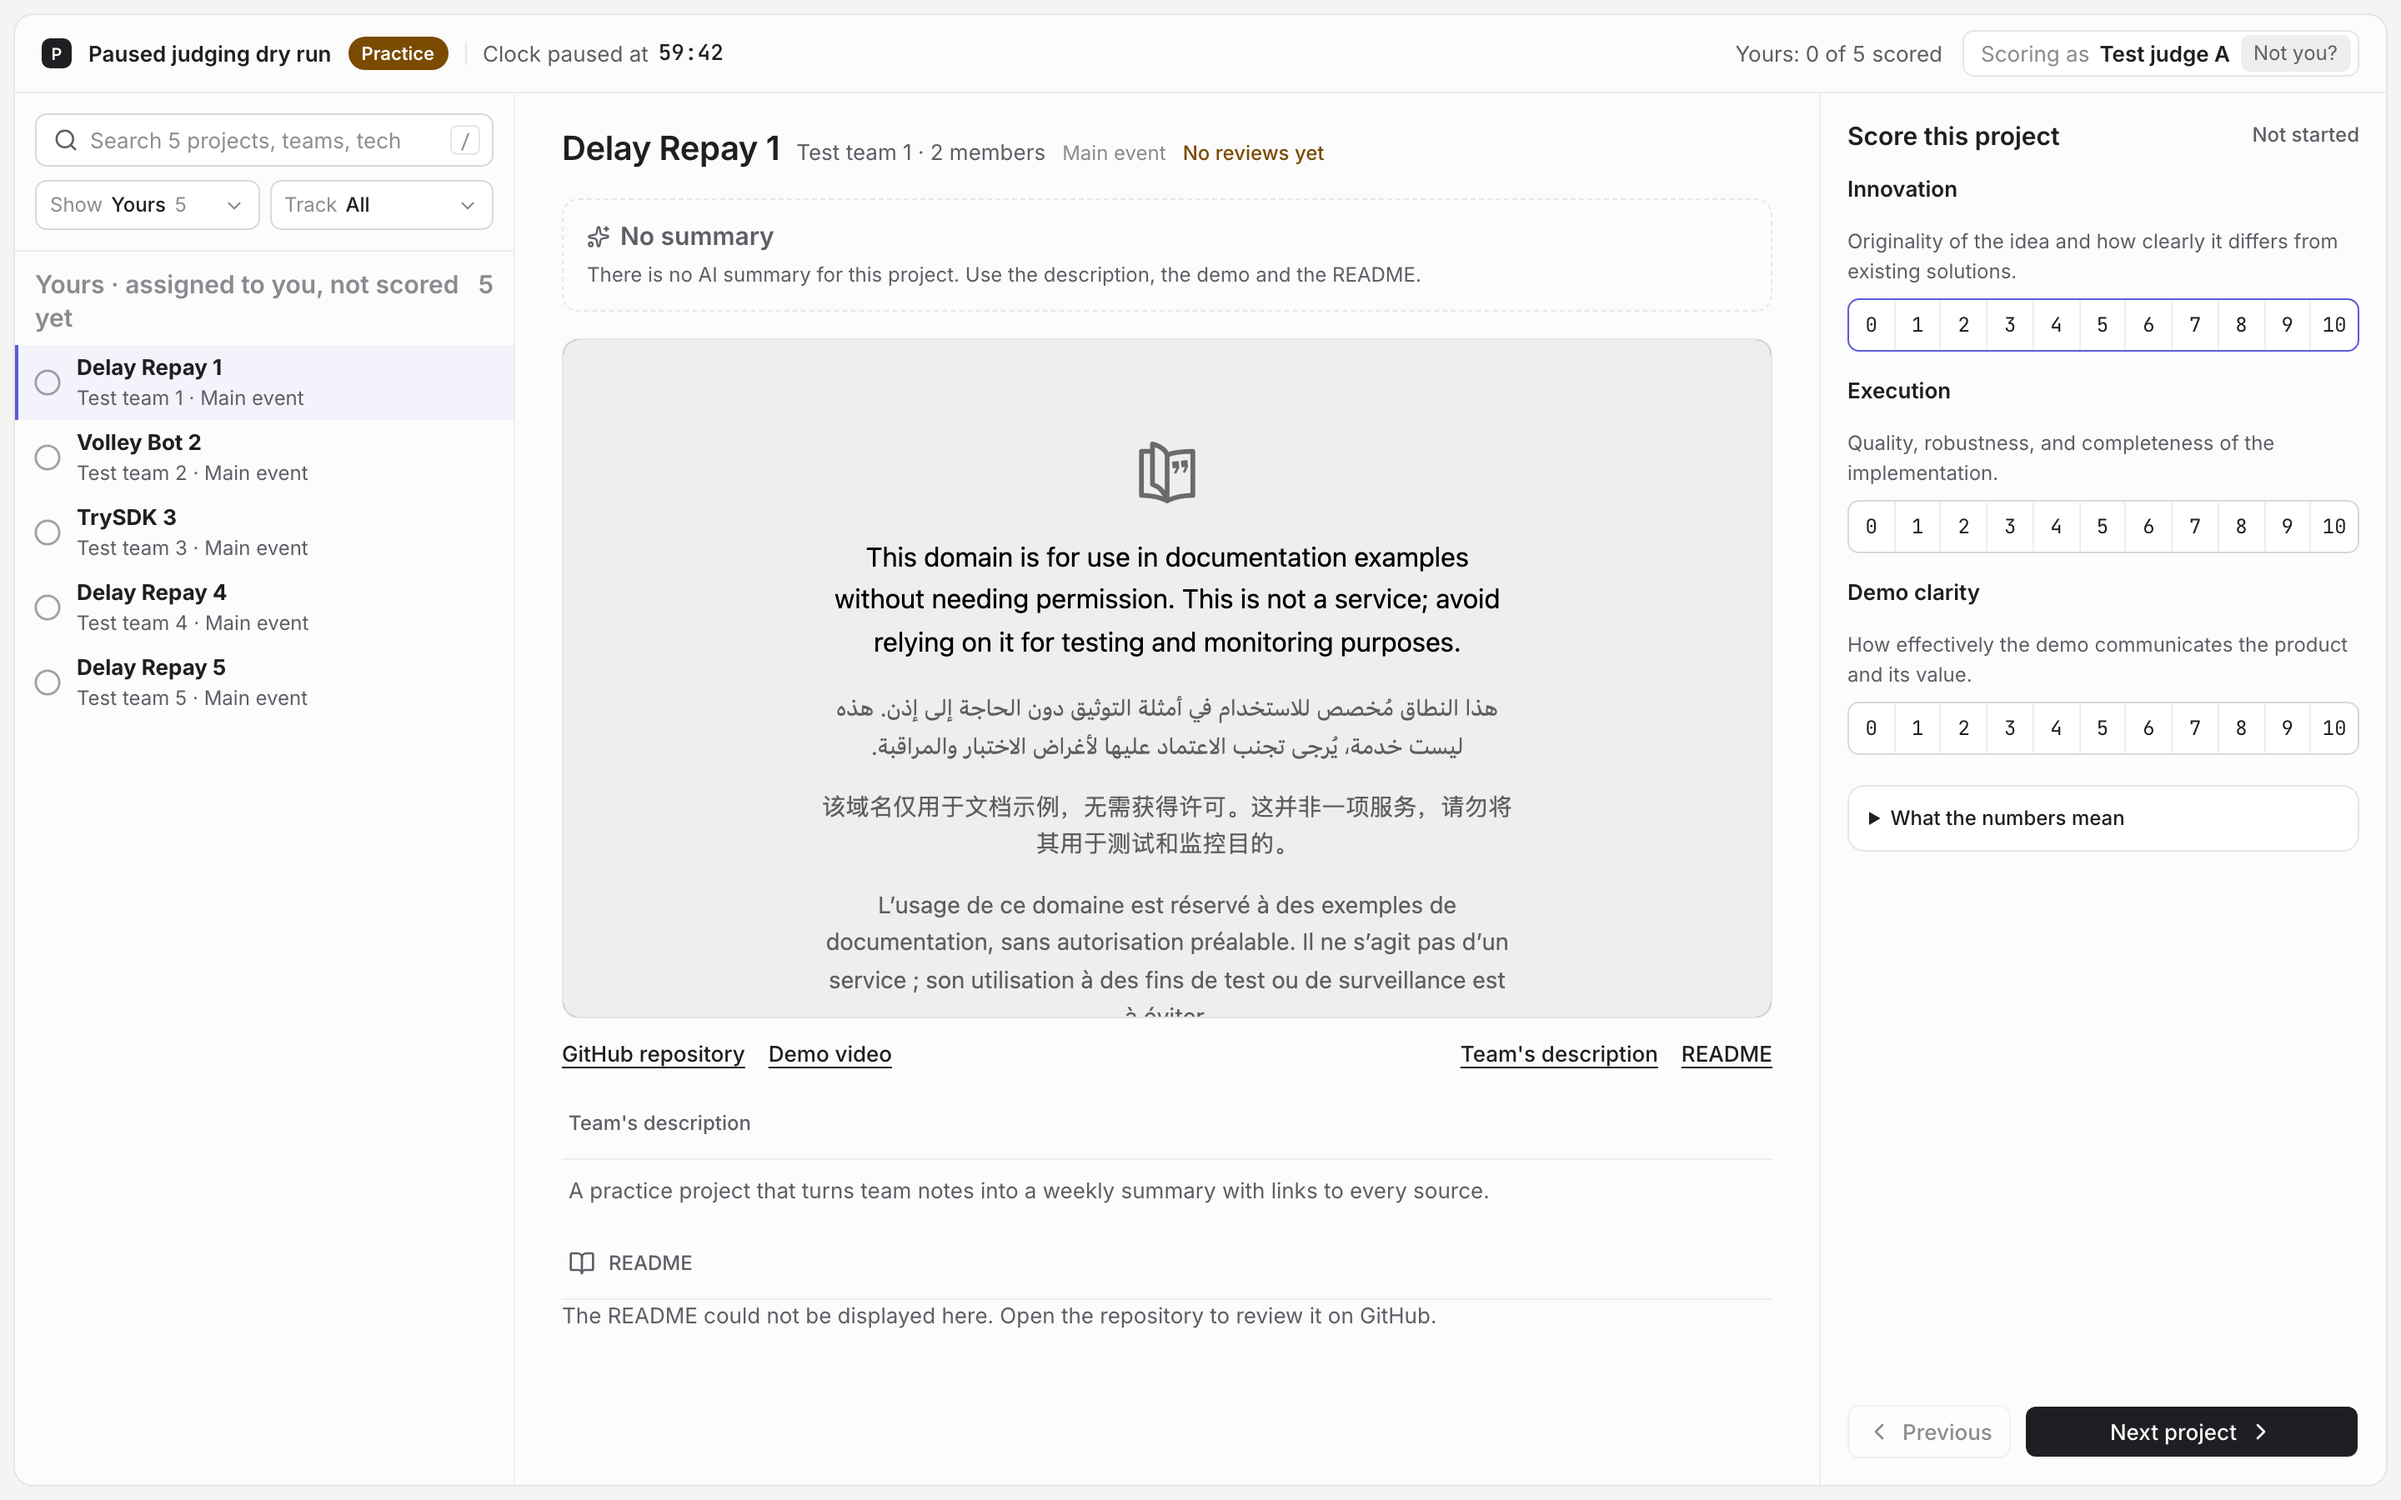
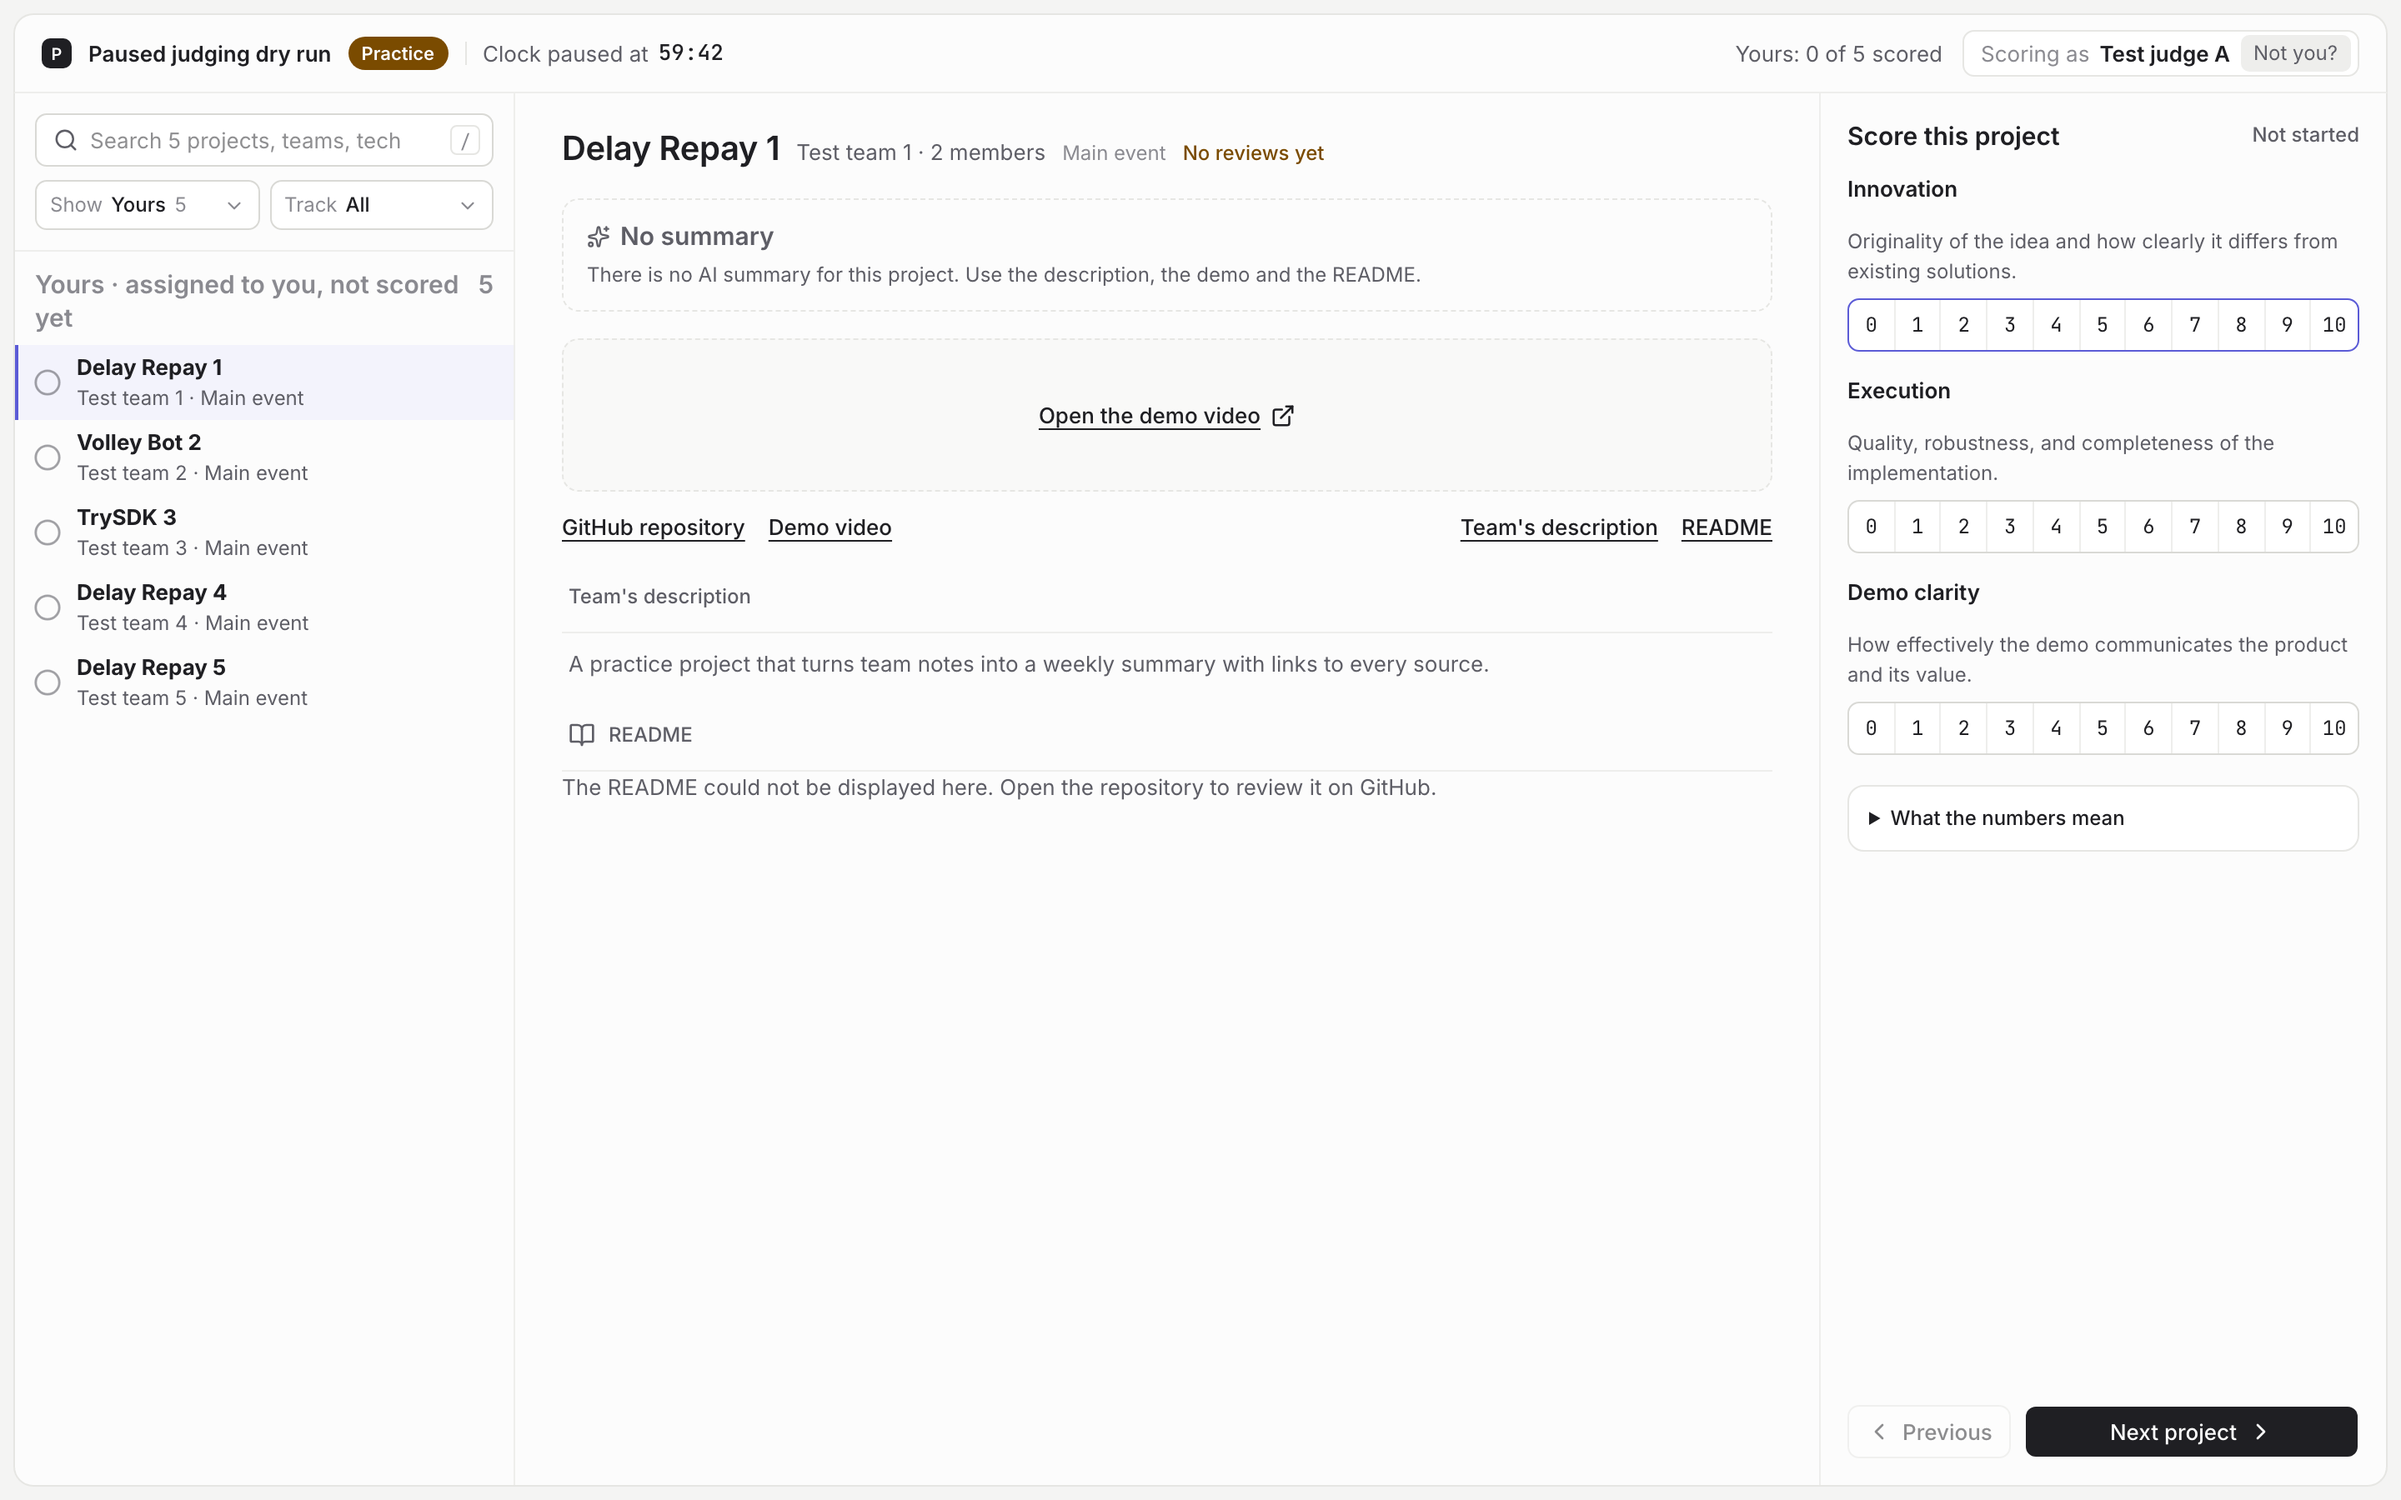
fix: embed only known video hosts on the judge page
Any HTTPS video link went into a frame, so a link to some other site showed
that site inside the judge page. Only YouTube, Vimeo, Loom and Google Drive
file previews are embedded now; any other link shows "Open the demo video".
Reshoots the five practice judge shots that framed a test link.

Requested-by: Demian (seed findings)

diff --git a/app/judge/[slug]/[token]/ClientPage.tsx b/app/judge/[slug]/[token]/ClientPage.tsx
@@ -28,7 +28,7 @@ import { Tooltip, TooltipContent, TooltipProvider, TooltipTrigger } from "@/comp
 import { ShortcutTooltip } from "@/components/shell/commands";
 import { JUDGING_CRITERIA, JUDGING_CRITERION_LABELS } from "@/lib/judging-rubric";
 import { Id } from "../../../../convex/_generated/dataModel";
-import { youtubeEmbedUrl } from "@/lib/video-embed";
+import { videoEmbedUrl, youtubeEmbedUrl } from "@/lib/video-embed";
 import styles from "./judge.module.css";
 
 type Workspace = FunctionReturnType<typeof api.judging.getJudgeWorkspace>;
@@ -95,16 +95,6 @@ function useJudgingClock(timer: { remainingMs: number; serverNow: number; runnin
   }, [timer?.running, timer?.serverNow, timer?.remainingMs]);
   if (!timer) return 0;
   return timer.running ? timer.remainingMs - (now - offset - timer.serverNow) : timer.remainingMs;
-}
-
-function genericVideoEmbedUrl(value: string | null) {
-  if (!value) return null;
-  try {
-    const url = new URL(value);
-    return url.protocol === "https:" ? url.toString() : null;
-  } catch {
-    return null;
-  }
 }
 
 function Readme({ repositoryUrl }: { repositoryUrl: string | null }) {
@@ -366,7 +356,8 @@ function JudgeWorkspace({ data, slug, token, saveReview, onNotYou }: {
   const saveLabel = !selected ? "" : currentSaveState === "saving" ? "Saving…" : currentSaveState === "error" ? "Could not save" : currentSaveState === "saved" || currentComplete ? "Saved" : Object.keys(currentScores).length ? "Saved" : "Not started";
   const saveClass = currentSaveState === "error" ? styles.saveError : saveLabel === "Saved" ? styles.saveState : styles.savePending;
   const youtubeUrl = youtubeEmbedUrl(selected?.videoUrl ?? null);
-  const embedUrl = youtubeUrl ?? genericVideoEmbedUrl(selected?.videoUrl ?? null);
+  // Only known video hosts play inline; any other link opens in a new tab.
+  const embedUrl = videoEmbedUrl(selected?.videoUrl ?? null);
   const showOption = SHOW_OPTIONS.find((option) => option.value === show)!;
   const trackLabel = tracks.length === 0 ? "All" : tracks.length === 1 ? (tracks[0] === MAIN_EVENT ? "Main event only" : data.tracks.find((track) => String(track.id) === tracks[0])?.name ?? "1 track") : `${tracks.length} selected`;
   const note = selected ? reviewNote(selected, data.reviewTarget) : null;

diff --git a/lib/video-embed.ts b/lib/video-embed.ts
@@ -17,3 +17,40 @@ export function youtubeEmbedUrl(value: string | null | undefined) {
     return null;
   }
 }
+
+const VIDEO_ID = /^[A-Za-z0-9_-]{6,}$/;
+
+/**
+ * An embed address for the video hosts the judge page plays inline: YouTube,
+ * Vimeo, Loom and Google Drive file previews. Any other link is null, and the
+ * page shows "Open the demo video" instead of putting the site in a frame.
+ */
+export function videoEmbedUrl(value: string | null | undefined) {
+  const youtube = youtubeEmbedUrl(value);
+  if (youtube) return youtube;
+  if (!value) return null;
+  let url: URL;
+  try {
+    url = new URL(value);
+  } catch {
+    return null;
+  }
+  if (url.protocol !== "https:") return null;
+  const host = url.hostname.replace(/^www\./, "").toLowerCase();
+  const parts = url.pathname.split("/").filter(Boolean);
+  if (host === "vimeo.com" && /^\d+$/.test(parts[0] ?? "")) {
+    const hash = /^[0-9a-f]{6,}$/i.test(parts[1] ?? "") ? `?h=${parts[1]}` : "";
+    return `https://player.vimeo.com/video/${parts[0]}${hash}`;
+  }
+  if (host === "player.vimeo.com" && parts[0] === "video" && /^\d+$/.test(parts[1] ?? "")) {
+    const hash = url.searchParams.get("h");
+    return `https://player.vimeo.com/video/${parts[1]}${hash && /^[0-9a-f]+$/i.test(hash) ? `?h=${hash}` : ""}`;
+  }
+  if (host === "loom.com" && (parts[0] === "share" || parts[0] === "embed") && VIDEO_ID.test(parts[1] ?? "")) {
+    return `https://www.loom.com/embed/${parts[1]}`;
+  }
+  if (host === "drive.google.com" && parts[0] === "file" && parts[1] === "d" && VIDEO_ID.test(parts[2] ?? "")) {
+    return `https://drive.google.com/file/d/${parts[2]}/preview`;
+  }
+  return null;
+}
